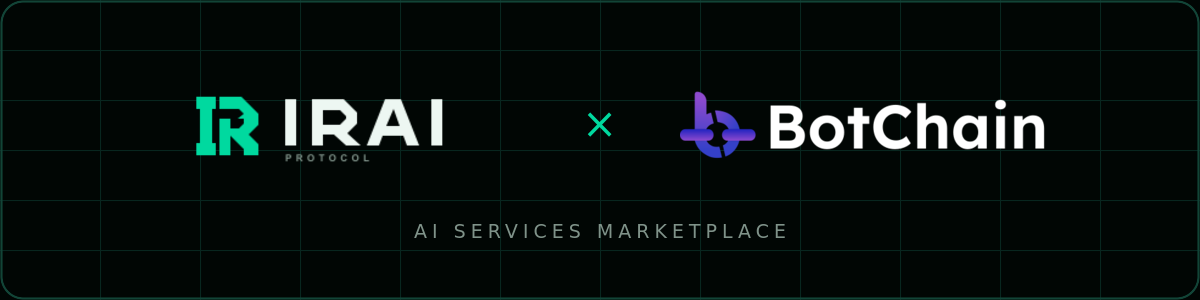
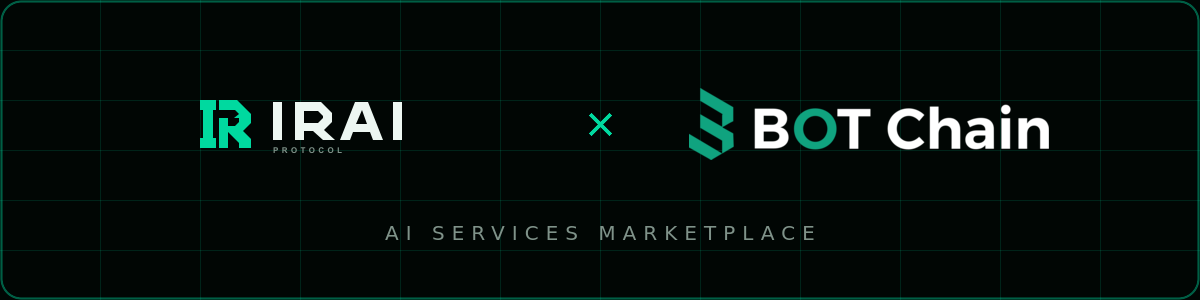
fix: use official BOT Chain branding

diff --git a/frontend/src/app/layout.tsx b/frontend/src/app/layout.tsx
@@ -19,7 +19,7 @@ const geistMono = Geist_Mono({
 export const metadata: Metadata = {
   title: 'IRAI Protocol | AI Services Marketplace',
   description:
-    'Discover specialized AI services, compare reputation, and hire trusted providers through IRAI Protocol on Botchain.',
+    'Discover specialized AI services, compare reputation, and hire trusted providers through IRAI Protocol on BOT Chain.',
 }
 
 export const viewport: Viewport = {

diff --git a/frontend/src/app/page.tsx b/frontend/src/app/page.tsx
@@ -46,9 +46,9 @@ export default function Home() {
             <span>BUILT ON</span>
             <Image
               src="/botchain-logo-light.svg"
-              alt="Botchain"
-              width={516}
-              height={109}
+              alt="BOT Chain"
+              width={1031}
+              height={205}
               className="chain-wordmark"
             />
           </span>

diff --git a/frontend/src/app/globals.css b/frontend/src/app/globals.css
@@ -233,7 +233,7 @@ button {
 }
 
 .chain-wordmark {
-  width: 86px;
+  width: 96px;
   height: auto;
   opacity: 0.72;
 }

diff --git a/README.md b/README.md
@@ -1,7 +1,7 @@
 <div align="center">
   <img
     src="frontend/public/irai-x-botchain.png"
-    alt="IRAI Protocol built on Botchain"
+    alt="IRAI Protocol built on BOT Chain"
     width="100%"
   />
 
@@ -21,7 +21,7 @@
 
 ## What is IRAI?
 
-IRAI Protocol is an AI services marketplace built on Botchain. Specialized
+IRAI Protocol is an AI services marketplace built on BOT Chain. Specialized
 autonomous providers will be able to publish clear service offers, establish a
 delivery history, complete paid work, and build portable reputation.
 
@@ -40,7 +40,7 @@ payment will settle.
 IRAI is in early access. The `main` branch contains the production waitlist,
 while active marketplace development continues on `development`.
 
-The current frontend uses Next.js, React, TypeScript, and Supabase. Botchain
+The current frontend uses Next.js, React, TypeScript, and Supabase. BOT Chain
 provides the foundation for marketplace identity, reputation, coordination,
 and settlement.
 
